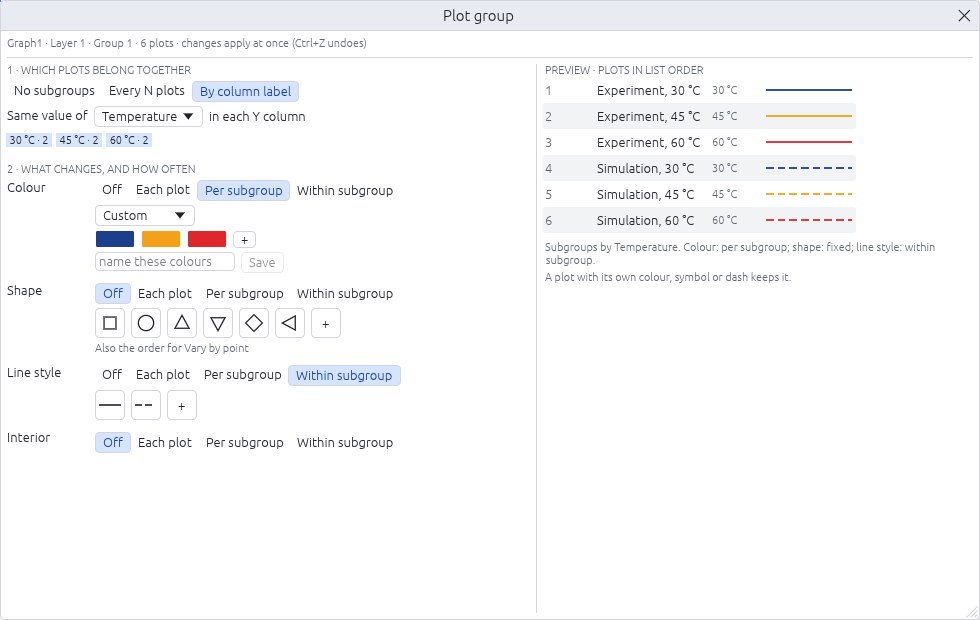
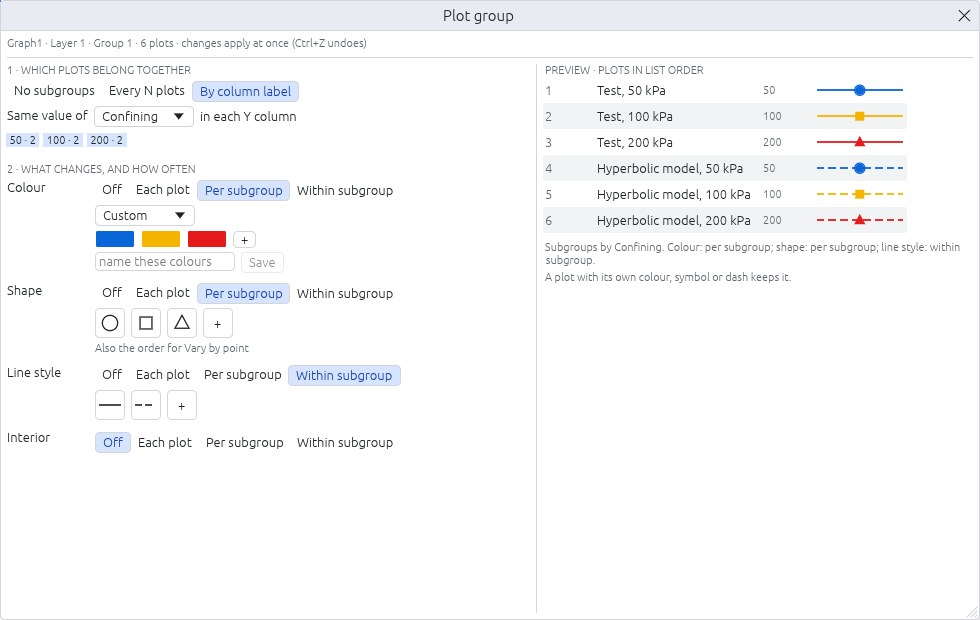
Pictures from a synthetic sand sample instead of the creep tests

diff --git a/index.html b/index.html
@@ -59,7 +59,7 @@
       </div>
       <div class="window">
         <div class="bar" aria-hidden="true"><i></i><i></i><i></i></div>
-        <img src="assets/screenshot.jpg" width="1600" height="960" alt="The Patina Plot window with a graph of creep strain against stress ratio for sand at three temperatures, the Project Explorer on the left and the Inspector on the right">
+        <img src="assets/screenshot.jpg" width="1600" height="960" alt="The Patina Plot window with a graph of deviator stress against axial strain for a dense sand at three confining pressures, tests against a hyperbolic model with a table legend, the Project Explorer on the left and the Inspector on the right">
       </div>
     </div>
   </div>
@@ -99,11 +99,11 @@
     <div class="bento">
       <div class="tile wide">
         <div class="txt">
-          <h3>Plot groups: colour by temperature, symbol by test.</h3>
+          <h3>Plot groups: colour by confining pressure, line by test or model.</h3>
           <p>Group plots by a column label or every N plots, and choose what steps per group and
             what steps within it. Colour lists include Okabe-Ito, Science, Lancet and NEJM.</p>
         </div>
-        <img src="assets/feature-groups.jpg" width="980" height="620" loading="lazy" alt="The Plot group window: six plots grouped by a Temperature column label, a colour per subgroup and line style stepping within each">
+        <img src="assets/feature-groups.jpg" width="980" height="620" loading="lazy" alt="The Plot group window: six plots grouped by a Confining column label, a colour and symbol per subgroup and line style stepping within each">
       </div>
       <div class="tile wide">
         <div class="txt">

diff --git a/manual.html b/manual.html
@@ -182,7 +182,7 @@
     <p>Describe the graph as you would to a colleague, and say where it goes:</p>
     <div class="callout"><p><i>“Import flow.csv, plot discharge against time with error bars, fit
       a Gaussian and copy the graph for Word.”</i></p></div>
-    <div class="callout"><p><i>“Plot Book2 with the template Creep, one colour per temperature, and
+    <div class="callout"><p><i>“Plot Book2 with the template Triaxial, one colour per confining pressure, and
       export it as a 600 dpi PNG for a single column.”</i></p></div>
     <p>The assistant renders the graph to check its own work. Every step shows in the Activity
       panel at the bottom of the window, and Ctrl+Z undoes any of it.</p>
